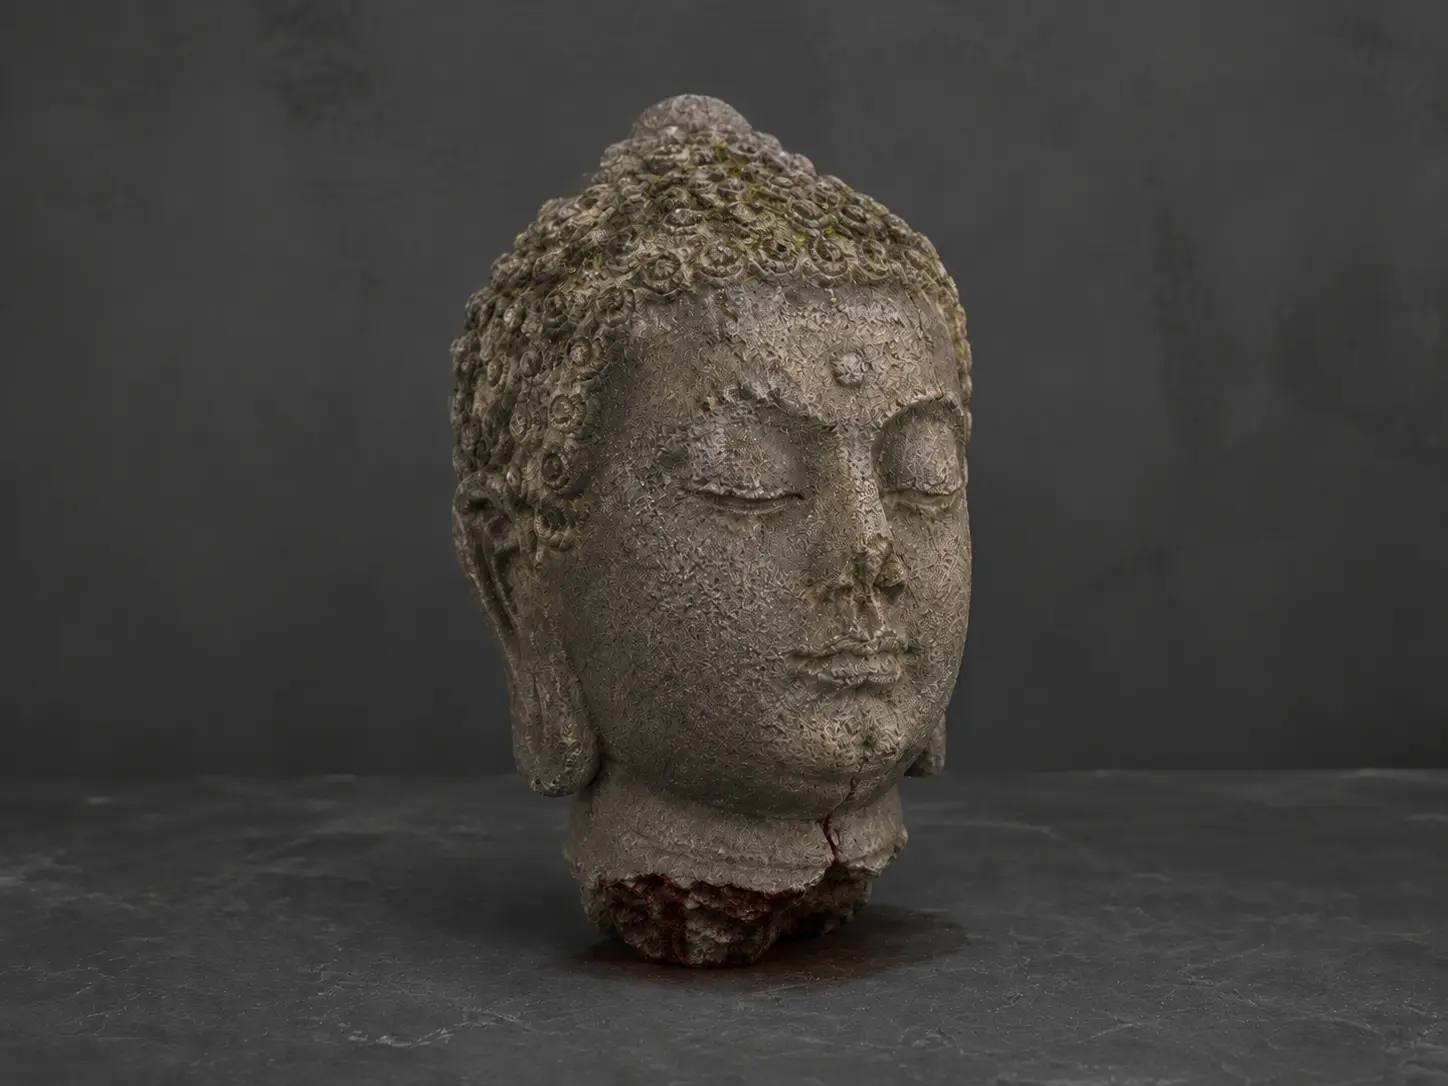
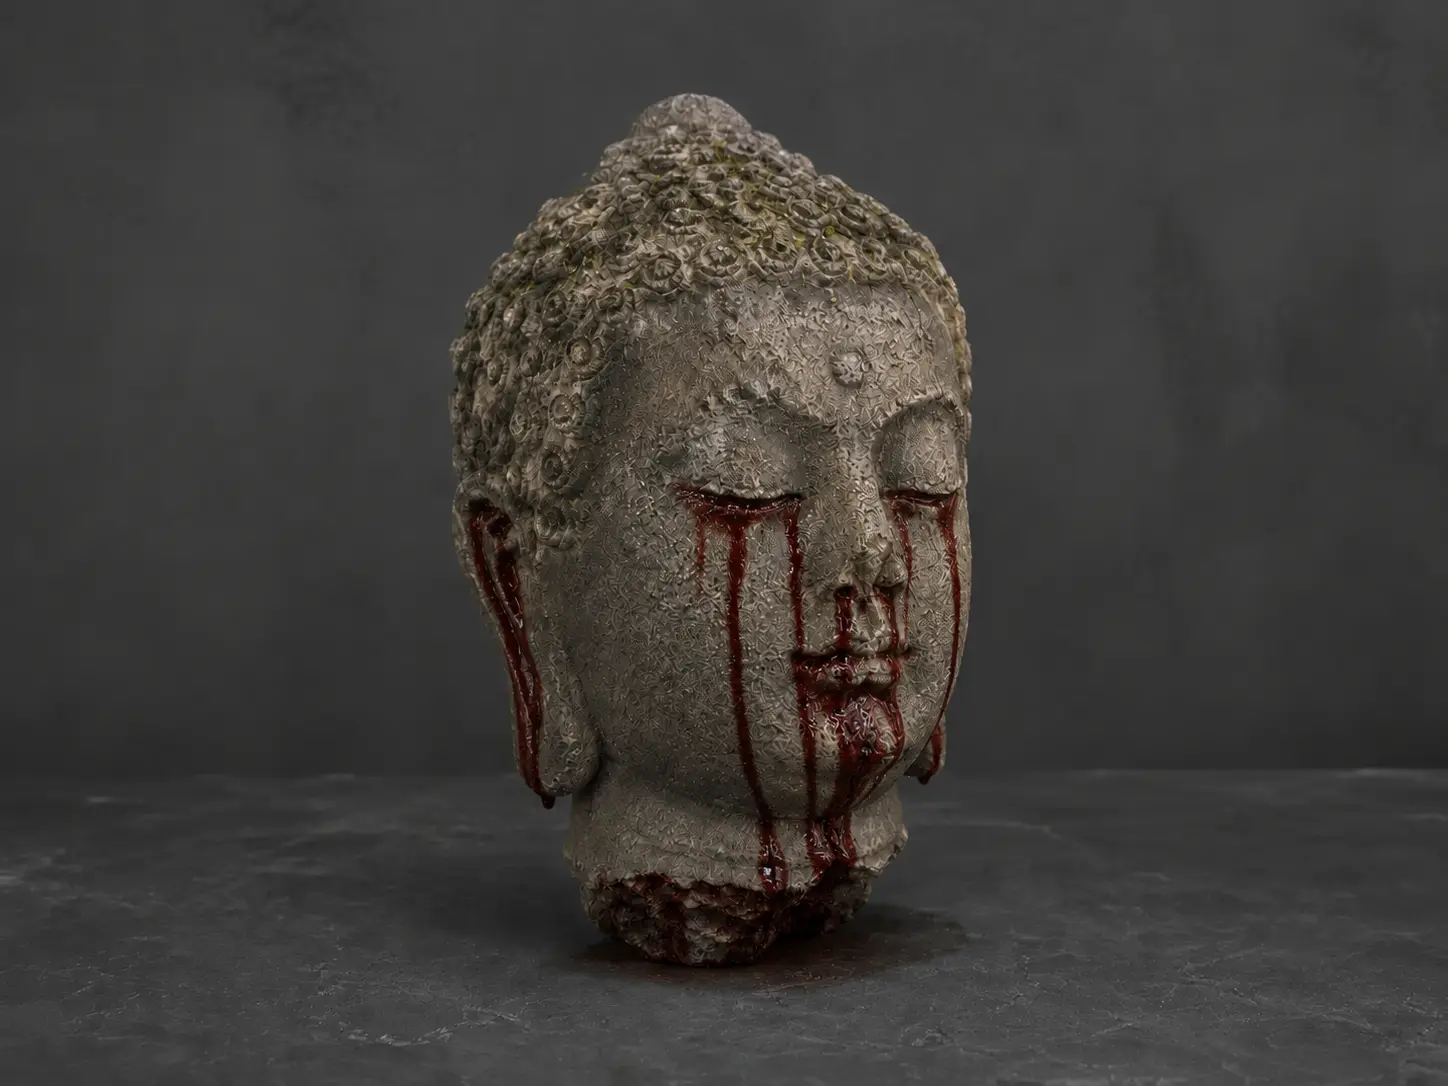
feat: intensify Buddha reveal with seven-orifice bleeding

diff --git a/app/game-app.tsx b/app/game-app.tsx
@@ -2710,7 +2710,7 @@ function XiyanTemplePage({
           </div>
         </div>
         <div className="stone-controls">
-          <div><span>图像检查</span><h2>{completed ? "暗红色血迹正从佛头断口渗出。" : breakClicks < 6 ? "先确认颈部断口。" : "断口已标记；现在检查石座。"}</h2><p>没有声音、喷溅或闪烁。完成既定顺序后，干燥入库照会缓慢显露渗血状态。</p></div>
+          <div><span>图像检查</span><h2>{completed ? "佛头七窍正在渗出暗红血迹。" : breakClicks < 6 ? "先确认颈部断口。" : "断口已标记；现在检查石座。"}</h2><p>没有声音、喷溅或闪烁。完成既定顺序后，干燥入库照会缓慢显露七窍出血状态。</p></div>
           {showCounts && <div className="stone-counts" aria-live="polite"><span>断口 <b>{breakClicks}/6</b></span><span>石座 <b>{baseClicks}/7</b></span></div>}
           {completed && reducedScares && <p className="static-scare-note">减少惊吓：仅保留缓慢叠化，不伴随闪烁或声响。</p>}
         </div>
